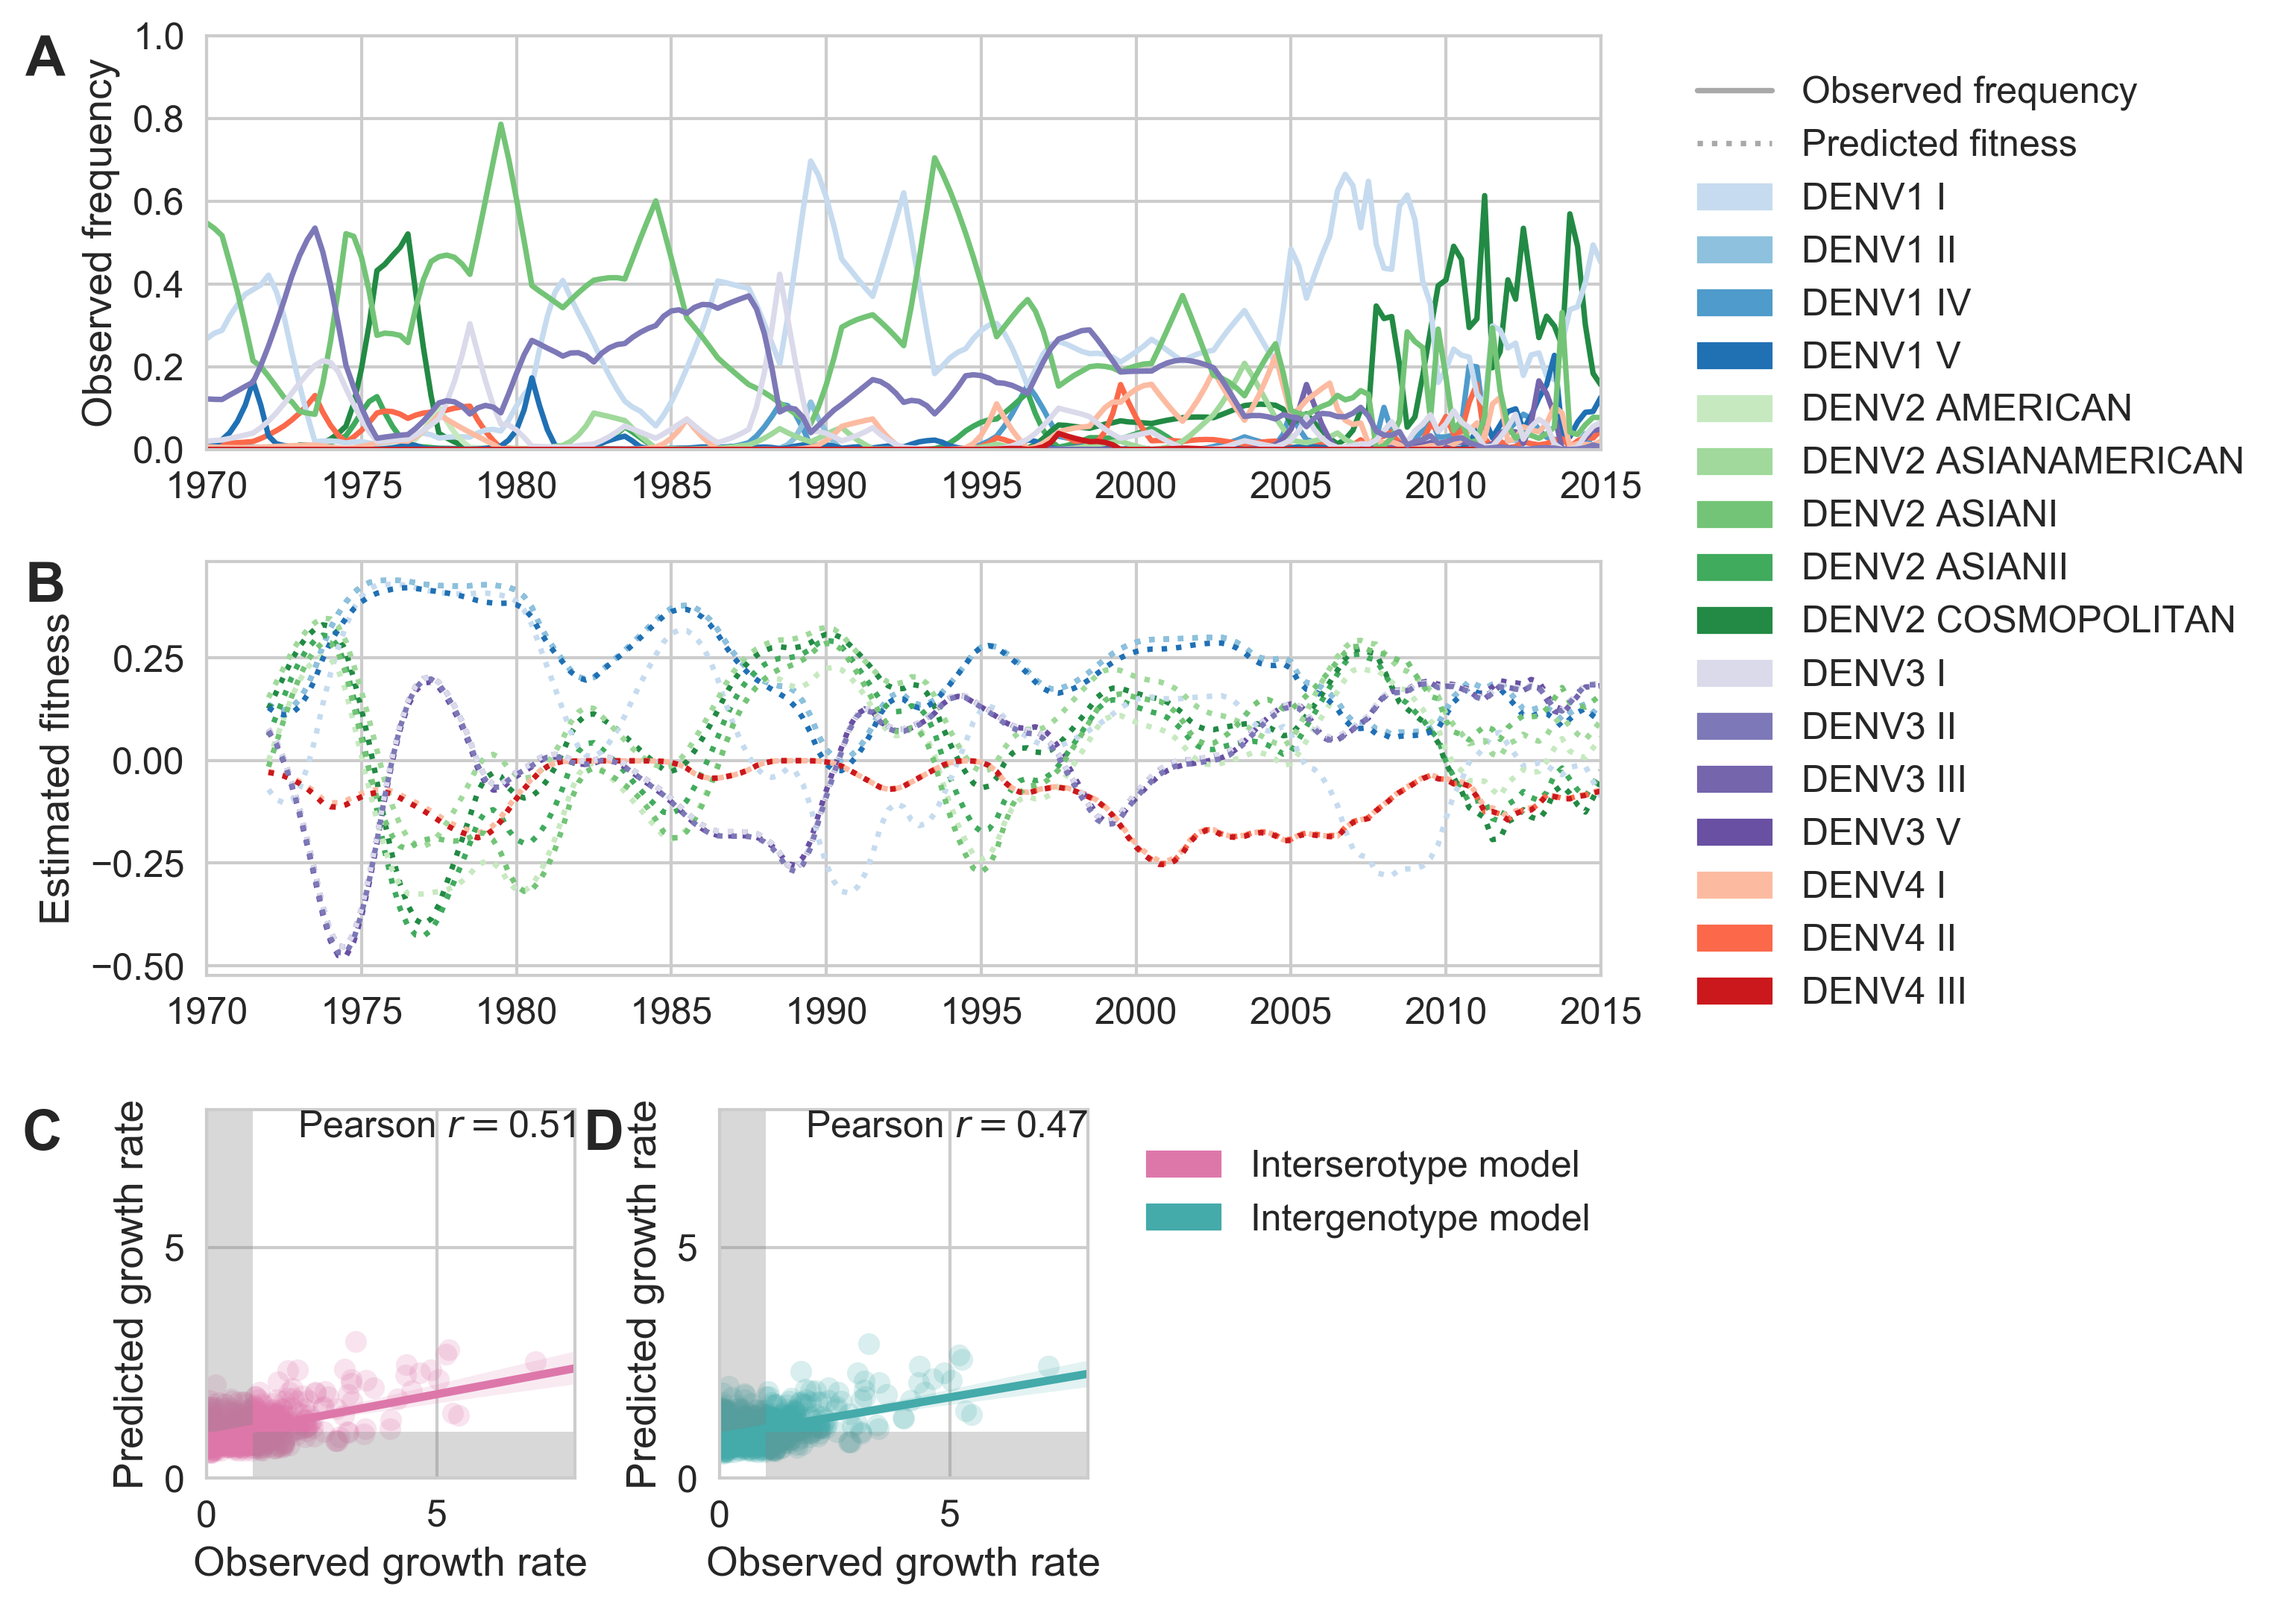
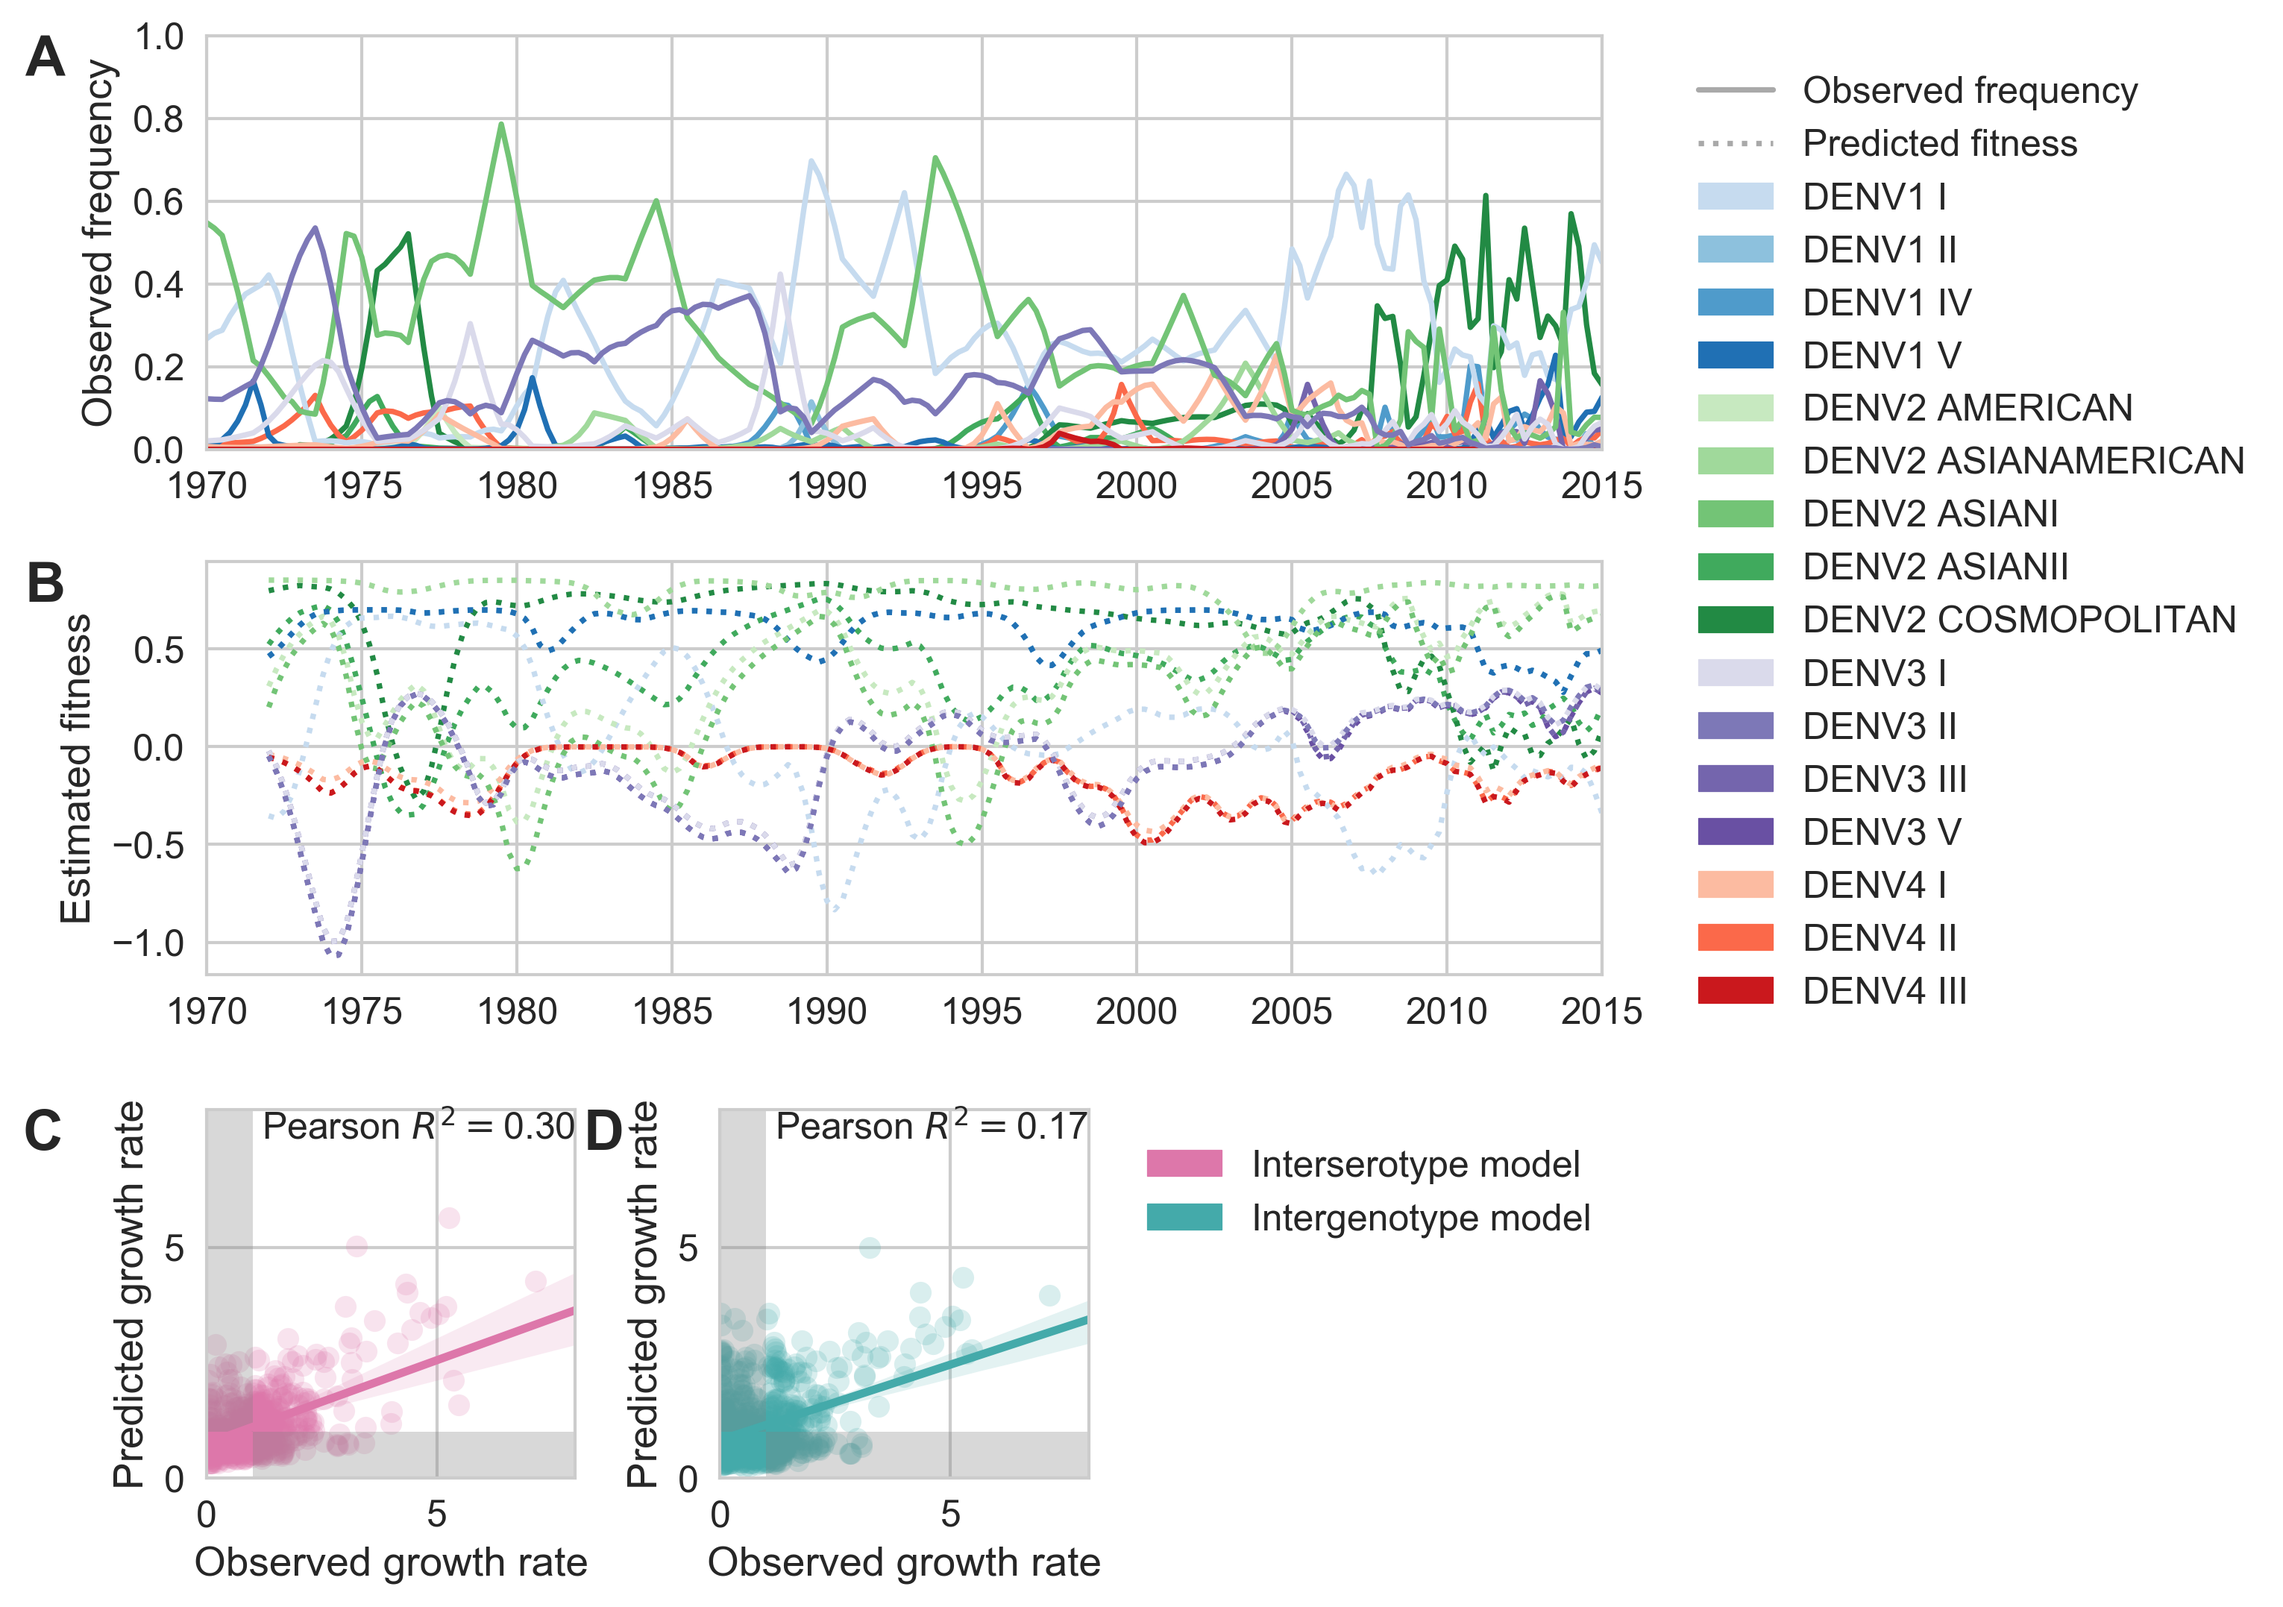
Update genotype fitness model performance values (serotype/rmse fit parameters)

diff --git a/manuscript/dengue-antigenic-dynamics.tex b/manuscript/dengue-antigenic-dynamics.tex
@@ -341,8 +341,8 @@ If within-serotype antigenic heterogeneity contributes to genotype fitness, then
 
 We find that antigenic fitness contributes to genotype turnover, although it explains less of the observed variation than for serotypes.
 As for serotypes, intrinsic fitness alone was unable to predict genotype turnover (Table~\ref{fitness_model_performance}).
-When antigenic distance is estimated from the `interserotype model', we find that our model of antigenic fitness explains approximately 26\% of the observed variation in genotype growth rates, and correctly predicts genotype growth vs. decline 66\% of the time (Figure~\ref{genotype_fitness}C).
-Perhaps surprisingly, more precise estimates of antigenic distance between genotypes from the `full tree model' does not improve our predictions of genotype success ($R^2 = 0.22$, 62\% accuracy; Figure~\ref{genotype_fitness}D, Table~\ref{fitness_model_performance}).
+When antigenic distance is estimated from the `interserotype model', we find that our model of antigenic fitness explains approximately 30\% of the observed variation in genotype growth rates, and correctly predicts genotype growth vs. decline 66\% of the time (Figure~\ref{genotype_fitness}C).
+Perhaps surprisingly, more precise estimates of antigenic distance between genotypes from the `intergenotype model' does not improve our predictions of genotype success ($R^2 = 0.16$, 58\% accuracy; Figure~\ref{genotype_fitness}D, Table~\ref{fitness_model_performance}).
 This suggests that although we find strong evidence that genotypes vary in their ability to escape neutralizing antibodies (Figures~\ref{titer_model_performance}, \ref{genotype_dTiter_heatmap}), these differences are subtle enough that they do not impact broad-scale regional dynamics over time.
 
 \begin{figure}[ht]
@@ -356,7 +356,7 @@ This suggests that although we find strong evidence that genotypes vary in their
     In this panel, we show total fitness over time, incorporating estimates of antigenic fitness derived from the `intergenotype' model.
     \textbf{C, D}  Fitness estimates were used to predict clade growth rates over 2 years, compounding immunity every three months based on predicted frequency changes (Methods Eq.~\ref{eq_compounding_immunity}).
     Here, we compare observed vs. predicted growth rates for both formulations of the fitness model (using fitness derived from either the `interserotype' or `intergenotype' model estimates of antigenic distance).
-    Growth versus decline was accurate (predicted and actual growth rates both $> 1$ or both $< 1$, points outside the gray shaded area) for 66\% and 62\% of predictions, respectively.
+    Growth versus decline was accurate (predicted and actual growth rates both $> 1$ or both $< 1$, points outside the gray shaded area) for 66\% and 58\% of predictions, respectively.
 }
      \label{genotype_fitness}
    \end{centering}
